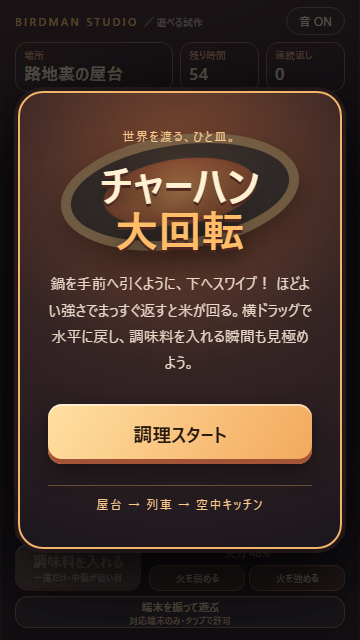
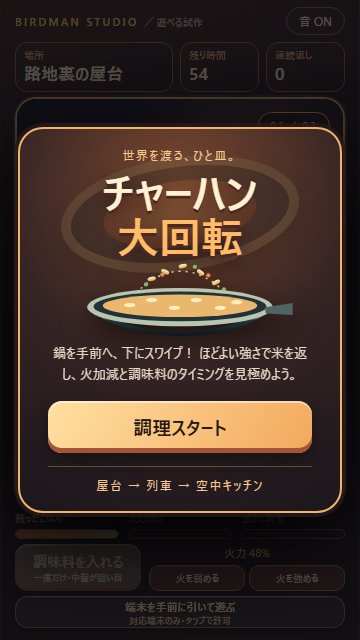
Illustrate the fried rice title and allow video tools to install

diff --git a/chahan/style.css b/chahan/style.css
@@ -2,3 +2,4 @@
 .stage{touch-action:none;cursor:grab}.stage:active{cursor:grabbing}.stage canvas,.stage-tag,.swipe-hint,.balance-label,.balance-track,.tip{pointer-events:none}.swipe-hint{position:absolute;top:52px;left:50%;transform:translateX(-50%);white-space:nowrap;padding:7px 15px;border-radius:30px;background:#fff0d9dd;color:#3c241b;font-size:12px;font-weight:900;box-shadow:0 4px 20px #0005}.cook-controls{display:grid;grid-template-columns:1fr 1.55fr;gap:8px;min-height:57px}.cook-controls #seasoning{border-radius:13px;background:#dc8d4e;color:#29180f;font-size:14px;font-weight:900;box-shadow:inset 0 -4px #0003}.cook-controls #seasoning small{display:block;font-size:9px;font-weight:600}.cook-controls #seasoning:disabled{background:#6e5d50;color:#d8c9b9;cursor:default}.cook-controls .heat-controls{display:grid;grid-template-columns:1fr 1fr;gap:4px}.cook-controls .heat-controls span{grid-column:1/-1;grid-row:1;text-align:center}.cook-controls .heat-controls button{grid-row:2;padding:5px 3px;font-size:10px}@media(max-height:700px){.cook-controls{min-height:47px}.swipe-hint{top:40px}}
 .motion-button{min-height:39px;border:1px solid #8d6d5a;border-radius:12px;background:#302a2b;color:#ffe4bd;font-size:12px;font-weight:800}.motion-button small{display:block;color:#d8bc9f;font-size:9px;font-weight:500}.motion-button.active{background:#33554f;border-color:#98ccbd}.motion-button.active small{color:#d2fff0}@media(max-height:700px){.motion-button{min-height:32px;font-size:11px}}
 .shell{background:linear-gradient(160deg,#3b2824aa,#171519 44%,#21181b);border-inline:1px solid #8c614733}.stage{border-color:#d1a36e;box-shadow:0 0 0 2px #3d2923,0 18px 60px #000a,inset 0 0 20px #0008}.hud>div{background:linear-gradient(145deg,#3b2822,#21191b);border-color:#936649}.hud strong{color:#fff1d6}.meters .bar{height:10px;border:1px solid #86634b;background:#231e21}.meters .bar i{background:linear-gradient(90deg,#c9653e,#f2af5a,#ffe3a0)}.cook-controls #seasoning{background:linear-gradient(145deg,#ffca79,#df8446);box-shadow:inset 0 2px #fff5,inset 0 -4px #713c2f88,0 5px 18px #0005}.heat-controls button,.motion-button{box-shadow:inset 0 1px #ffffff20,0 3px 10px #0004}.swipe-hint{background:linear-gradient(120deg,#fff8e6,#ffd596);box-shadow:0 5px 20px #0008;letter-spacing:.03em}.card{position:relative;overflow:hidden;border-color:#f2b36b;background:radial-gradient(circle at 50% 16%,#7c4930 0%,#352424 49%,#1b171d 100%);box-shadow:0 0 0 4px #271a1bcc,0 28px 80px #000d}.card::before{content:"";position:absolute;z-index:0;width:220px;height:94px;left:50%;top:42px;transform:translateX(-50%) rotate(-8deg);border-radius:50%;border:10px solid #f5c27c55;background:radial-gradient(ellipse,#f6cc7655 0%,#a2513244 49%,#14242a99 50%,#10181d99 100%);box-shadow:0 13px 30px #0005}.card>*{position:relative;z-index:1}.card h1{text-shadow:0 3px #4e2720,0 8px 22px #0009}.card button{background:linear-gradient(120deg,#ffe0a1,#f3a85d);box-shadow:inset 0 2px #fff8,inset 0 -5px #a45436,0 8px 25px #0006}.card .mini{padding-top:10px;border-top:1px solid #f2b36b55}.stage-tag{background:#201a1bcc;border-color:#efb973}
+.card{padding:25px 28px}.card::before{opacity:.42;top:28px}.card h1{margin:12px 0 2px}.hero-art{height:105px;margin:-4px -16px 2px;filter:drop-shadow(0 10px 14px #0009)}.hero-art svg{display:block;width:100%;height:100%}.card p{margin:4px 0 9px;font-size:14px;line-height:1.65}.card button{margin:8px 0}.card .mini{margin-top:5px}@media(max-height:700px){.card{padding:18px 28px}.card h1{font-size:42px;margin:7px 0 0}.hero-art{height:85px}.card p{font-size:13px;line-height:1.55}.card button{padding:13px}}

diff --git a/chahan/index.html b/chahan/index.html
@@ -8,5 +8,5 @@
   <div class="cook-controls"><button id="seasoning">調味料を入れる<small id="seasonHint">一度だけ・中盤が狙い目</small></button><div class="heat-controls"><button id="heatDown">火を弱める</button><span id="heatLabel">火力 48%</span><button id="heatUp">火を強める</button></div></div>
   <button id="motionButton" class="motion-button" type="button">端末を手前に引いて遊ぶ <small id="motionStatus">対応端末のみ・タップで許可</small></button>
   <p class="help">鍋を手前に引くように下へスワイプ。横ドラッグで傾きを戻す。キーボード：← →／SPACE／↑ ↓、Sで調味料。</p>
-  <div class="overlay" id="overlay"><div class="card"><div class="eyebrow">世界を渡る、ひと皿。</div><h1 id="overlayTitle">チャーハン<br><span>大回転</span></h1><p id="overlayText">鍋を手前へ引くように、下へスワイプ！ ほどよい強さでまっすぐ返すと米が回る。横ドラッグで水平に戻し、調味料を入れる瞬間も見極めよう。</p><button id="start">調理スタート</button><div class="mini">屋台 → 列車 → 空中キッチン</div></div></div>
+  <div class="overlay" id="overlay"><div class="card"><div class="eyebrow">世界を渡る、ひと皿。</div><h1 id="overlayTitle">チャーハン<br><span>大回転</span></h1><div class="hero-art" aria-hidden="true"><svg viewBox="0 0 320 120" role="presentation"><defs><linearGradient id="pan" x2="0" y2="1"><stop stop-color="#719b9b"/><stop offset=".25" stop-color="#e6d3a2"/><stop offset=".45" stop-color="#20363b"/><stop offset="1" stop-color="#0c171c"/></linearGradient><linearGradient id="rice" x2="0" y2="1"><stop stop-color="#fff7cc"/><stop offset="1" stop-color="#e6a453"/></linearGradient></defs><path d="M90 63 Q160 -14 232 62" fill="none" stroke="#fff2bf" stroke-width="2" stroke-dasharray="3 7" opacity=".8"/><g fill="url(#rice)"><ellipse cx="101" cy="55" rx="6" ry="3" transform="rotate(-28 101 55)"/><ellipse cx="120" cy="35" rx="6" ry="3" transform="rotate(-12 120 35)"/><ellipse cx="139" cy="25" rx="6" ry="3" transform="rotate(24 139 25)"/><ellipse cx="164" cy="17" rx="6" ry="3" transform="rotate(-14 164 17)"/><ellipse cx="189" cy="26" rx="6" ry="3" transform="rotate(35 189 26)"/><ellipse cx="211" cy="40" rx="6" ry="3" transform="rotate(-25 211 40)"/><ellipse cx="230" cy="58" rx="6" ry="3" transform="rotate(22 230 58)"/></g><g fill="#81b96c"><circle cx="112" cy="43" r="3"/><circle cx="181" cy="18" r="3"/><circle cx="222" cy="50" r="3"/></g><g fill="#ed8b52"><circle cx="135" cy="29" r="3"/><circle cx="200" cy="30" r="3"/></g><path d="M30 75 Q160 145 290 75 Q256 113 160 116 Q66 112 30 75" fill="url(#pan)"/><ellipse cx="160" cy="75" rx="131" ry="27" fill="#b8c6af"/><ellipse cx="160" cy="74" rx="122" ry="21" fill="#223237"/><ellipse cx="160" cy="73" rx="109" ry="16" fill="#e9b86e"/><g fill="#fff0bc"><ellipse cx="89" cy="72" rx="8" ry="3"/><ellipse cx="120" cy="65" rx="8" ry="3"/><ellipse cx="152" cy="76" rx="8" ry="3"/><ellipse cx="183" cy="65" rx="8" ry="3"/><ellipse cx="217" cy="76" rx="8" ry="3"/><ellipse cx="240" cy="68" rx="8" ry="3"/></g><path d="M280 75 L319 69 L319 86 L281 84Z" fill="#506463"/></svg></div><p id="overlayText">鍋を手前へ、下にスワイプ！ ほどよい強さで米を返し、火加減と調味料のタイミングを見極めよう。</p><button id="start">調理スタート</button><div class="mini">屋台 → 列車 → 空中キッチン</div></div></div>
   </main><script type="module" src="./game.js"></script></body></html>
